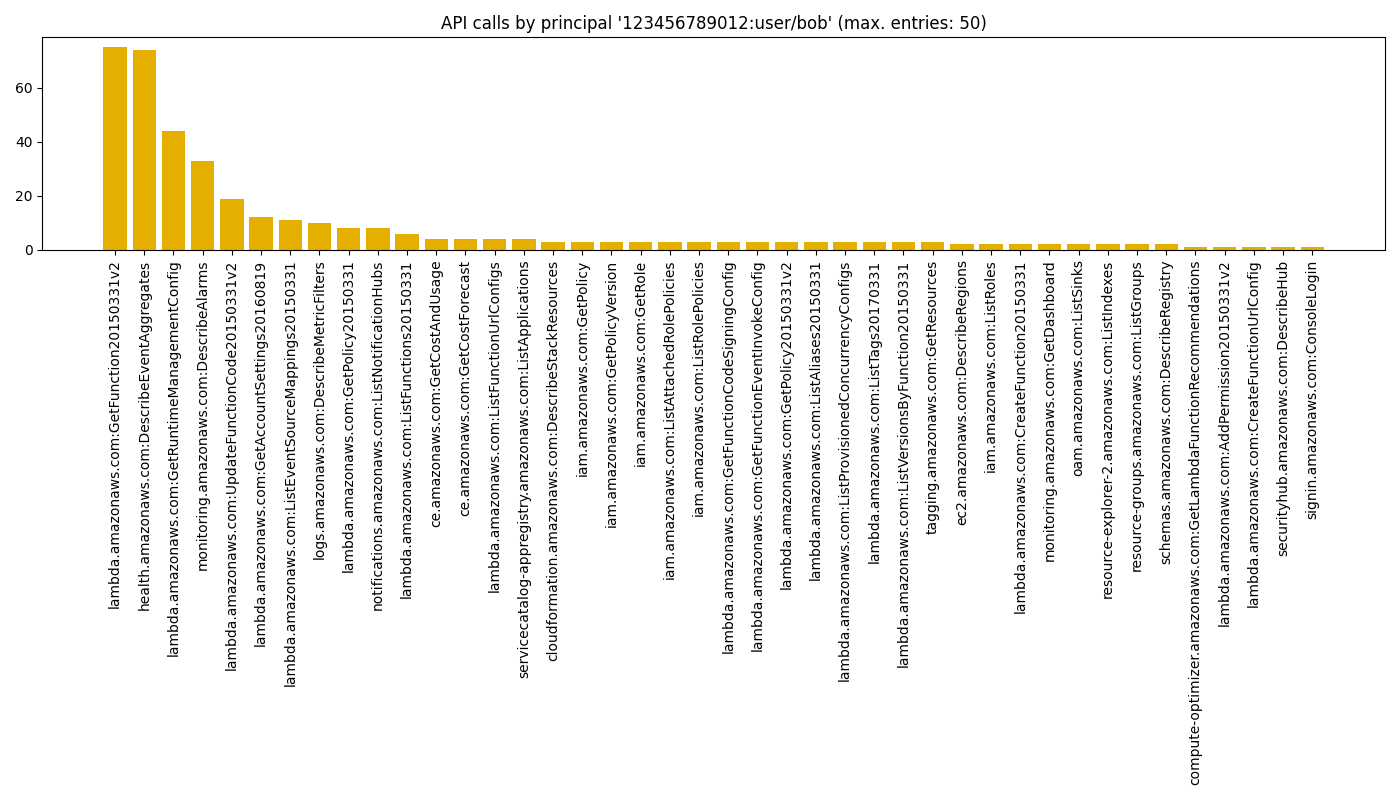
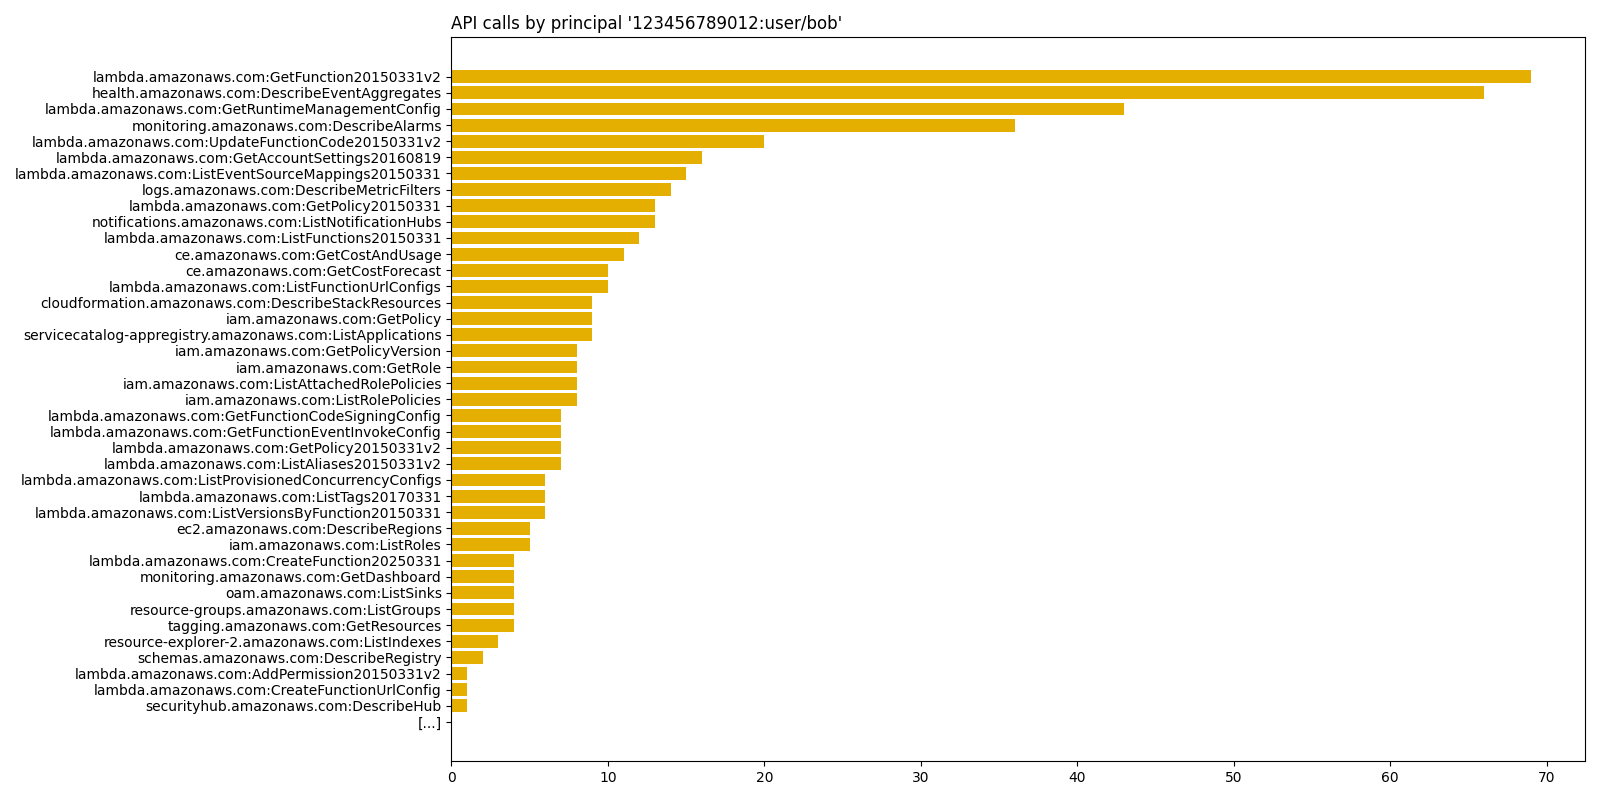
Updated bar chart visualizations

diff --git a/modules/cloudtrail_plotter.py b/modules/cloudtrail_plotter.py
@@ -3,13 +3,15 @@ import os
 import string
 
 
-_PLOT_CANVAS_SIZE = (14, 8)
+_PLOT_CANVAS_SIZE = (16, 8)
 
 _PLOT_COLOR = "#e4af00"
 
-_PLOT_MAX_ITEMS = 50
+_PLOT_MAX_ITEMS = 40
 
-_PLOT_MAX_LENGTH_X_AXIS_LABELS = 85
+_PLOT_MAX_LENGTH_LABELS = 85
+
+_PLOT_TRUNCATION_SEQUENCE = "[...]"
 
 
 def generate_plot_files(data, output_directory):
@@ -35,7 +37,7 @@ def generate_plot_files(data, output_directory):
     for principal in data["api_calls_by_principal"]:
         data_to_plot = data["api_calls_by_principal"][principal]
         _write_plot_file(
-            "API calls by principal '{}'".format(principal),
+            "API calls by principal '{}'".format(_truncate_str(principal, _PLOT_MAX_LENGTH_LABELS)),
             data_to_plot,
             api_calls_by_principal_dir,
             principal,
@@ -58,7 +60,7 @@ def generate_plot_files(data, output_directory):
     for region in data["api_calls_by_region"]:
         data_to_plot = data["api_calls_by_region"][region]
         _write_plot_file(
-            "API calls by region '{}'".format(region),
+            "API calls by region '{}'".format(_truncate_str(region, _PLOT_MAX_LENGTH_LABELS)),
             data_to_plot,
             api_calls_by_region_dir,
             region,
@@ -81,7 +83,7 @@ def generate_plot_files(data, output_directory):
     for principal in data["ip_addresses_by_principal"]:
         data_to_plot = data["ip_addresses_by_principal"][principal]
         _write_plot_file(
-            "IP addresses by principal '{}'".format(principal),
+            "IP addresses by principal '{}'".format(_truncate_str(principal, _PLOT_MAX_LENGTH_LABELS)),
             data_to_plot,
             ip_addresses_by_principal_dir,
             principal,
@@ -104,7 +106,7 @@ def generate_plot_files(data, output_directory):
     for principal in data["user_agents_by_principal"]:
         data_to_plot = data["user_agents_by_principal"][principal]
         _write_plot_file(
-            "User agents by principal '{}'".format(principal),
+            "User agents by principal '{}'".format(_truncate_str(principal, _PLOT_MAX_LENGTH_LABELS)),
             data_to_plot,
             user_agents_by_principal_dir,
             principal,
@@ -127,24 +129,23 @@ def generate_plot_files(data, output_directory):
     for principal in data["error_codes_by_principal"]:
         data_to_plot = data["error_codes_by_principal"][principal]
         _write_plot_file(
-            "Error codes by principal '{}'".format(principal),
+            "Error codes by principal '{}'".format(_truncate_str(principal, _PLOT_MAX_LENGTH_LABELS)),
             data_to_plot,
             error_codes_by_principal_dir,
             principal,
         )
 
 
-def _dict_to_sorted_tuples(val, max_items):
+def _dict_to_sorted_tuples(val):
     """
     Returns two tuples that represent the keys and the values of the given dict in descending order of the values.
-    On value equality, items are sorted lexicographically by key. The tuples are cut off when their length rechaches
-    the given max_items.
+    On value equality, items are sorted lexicographically by key.
     Example input:
         {"a": 3, "d": 9, "b": 9, "c": 1}
     Example output:
         ("b", "d", "a", "c"), (9, 9, 3, 1)
     """
-    val_list = sorted(val.items(), key=lambda val: (-val[1], val[0]))[:max_items]
+    val_list = sorted(val.items(), key=lambda val: (-val[1], val[0]))
     return zip(*val_list)
 
 
@@ -161,14 +162,14 @@ def _str_to_filename(val):
     return "".join(char if char in alphabet else "_" for char in val)
 
 
-def _truncate_str(val, max_length, truncation_sequence="[...]"):
+def _truncate_str(val, max_length):
     """
-    Returns the given string truncated at the given maximum length. If truncation was applied, the given truncation
-    sequence is put as an indication at the end of the string. If the given string does not exceed the maximum length,
-    it is returned without changes.
+    Returns the given string truncated at the given maximum length. If truncation was applied, a truncation sequence
+    is put as an indication at the end of the string. If the given string does not exceed the maximum length, it is
+    returned without changes.
     """
     if len(val) > max_length:
-        return val[0 : max_length - len(truncation_sequence)] + truncation_sequence
+        return val[0 : max_length - len(_PLOT_TRUNCATION_SEQUENCE)] + _PLOT_TRUNCATION_SEQUENCE
     return val
 
 
@@ -177,22 +178,25 @@ def _write_plot_file(plot_title, dict_to_plot, output_directory, output_file_nam
     Writes a bar chart PNG file. The given dict keys represent the x axis data, the dict values the y axis. Characters
     of the given output file name may be replaced to ensure valid file names.
     """
-    plot_title = "{} (max. entries: {})".format(plot_title, _PLOT_MAX_ITEMS)
     try:
-        x_axis, y_axis = _dict_to_sorted_tuples(dict_to_plot, _PLOT_MAX_ITEMS)
+        y_axis_labels, x_axis_bar_sizes = _dict_to_sorted_tuples(dict_to_plot)
     except ValueError:
-        # The data to plot is empty
-        x_axis, y_axis = (), ()
-    x_axis = tuple(_truncate_str(val, _PLOT_MAX_LENGTH_X_AXIS_LABELS) for val in x_axis)
-    output_file = os.path.join(output_directory, _str_to_filename(output_file_name) + ".png")
+        # There is no data to plot
+        return
+
+    # Truncate data and labels, if necessary
+    if len(y_axis_labels) > _PLOT_MAX_ITEMS:
+        y_axis_labels = y_axis_labels[:_PLOT_MAX_ITEMS] + (_PLOT_TRUNCATION_SEQUENCE,)
+        x_axis_bar_sizes = x_axis_bar_sizes[:_PLOT_MAX_ITEMS] + (0,)
+    y_axis_labels = tuple(_truncate_str(val, _PLOT_MAX_LENGTH_LABELS) for val in y_axis_labels)
 
     plt.figure(figsize=_PLOT_CANVAS_SIZE)
-    plt.title(plot_title, wrap=True)
-    plt.gca().yaxis.get_major_locator().set_params(integer=True)
-    plt.xticks(rotation=90)
-    plt.bar(range(len(x_axis)), y_axis, tick_label=x_axis, color=_PLOT_COLOR)
-    if not x_axis:
-        plt.gca().set_ylim(bottom=0, top=1)
+    plt.title(plot_title, wrap=True, loc="left")
+    plt.barh(y=y_axis_labels, width=x_axis_bar_sizes, color=_PLOT_COLOR)
+    plt.gca().yaxis.set_inverted(True)
+    plt.gca().xaxis.get_major_locator().set_params(integer=True)
     plt.tight_layout()
+
+    output_file = os.path.join(output_directory, _str_to_filename(output_file_name) + ".png")
     plt.savefig(output_file)
     plt.close()

diff --git a/aws_summarize_account_activity.py b/aws_summarize_account_activity.py
@@ -243,7 +243,7 @@ if __name__ == "__main__":
         os.mkdir(plots_directory)
 
     # Collect CloudTrail data for all enabled regions
-    with concurrent.futures.ThreadPoolExecutor() as executor:
+    with concurrent.futures.ThreadPoolExecutor(max_workers=len(enabled_regions)) as executor:
         for region in enabled_regions:
             executor.submit(collect_cloudtrail_data_for_region, region)
 

diff --git a/README.md b/README.md
@@ -10,7 +10,7 @@ variables](https://docs.aws.amazon.com/cli/latest/userguide/cli-configure-envvar
 profile](https://docs.aws.amazon.com/cli/latest/userguide/cli-configure-files.html) in the optional `--profile` 
 argument.
 
-Install dependencies:
+Ensure you run at least Python 3.10 (or newer) and install dependencies:
 
 ```bash
 pip install -r requirements.txt
